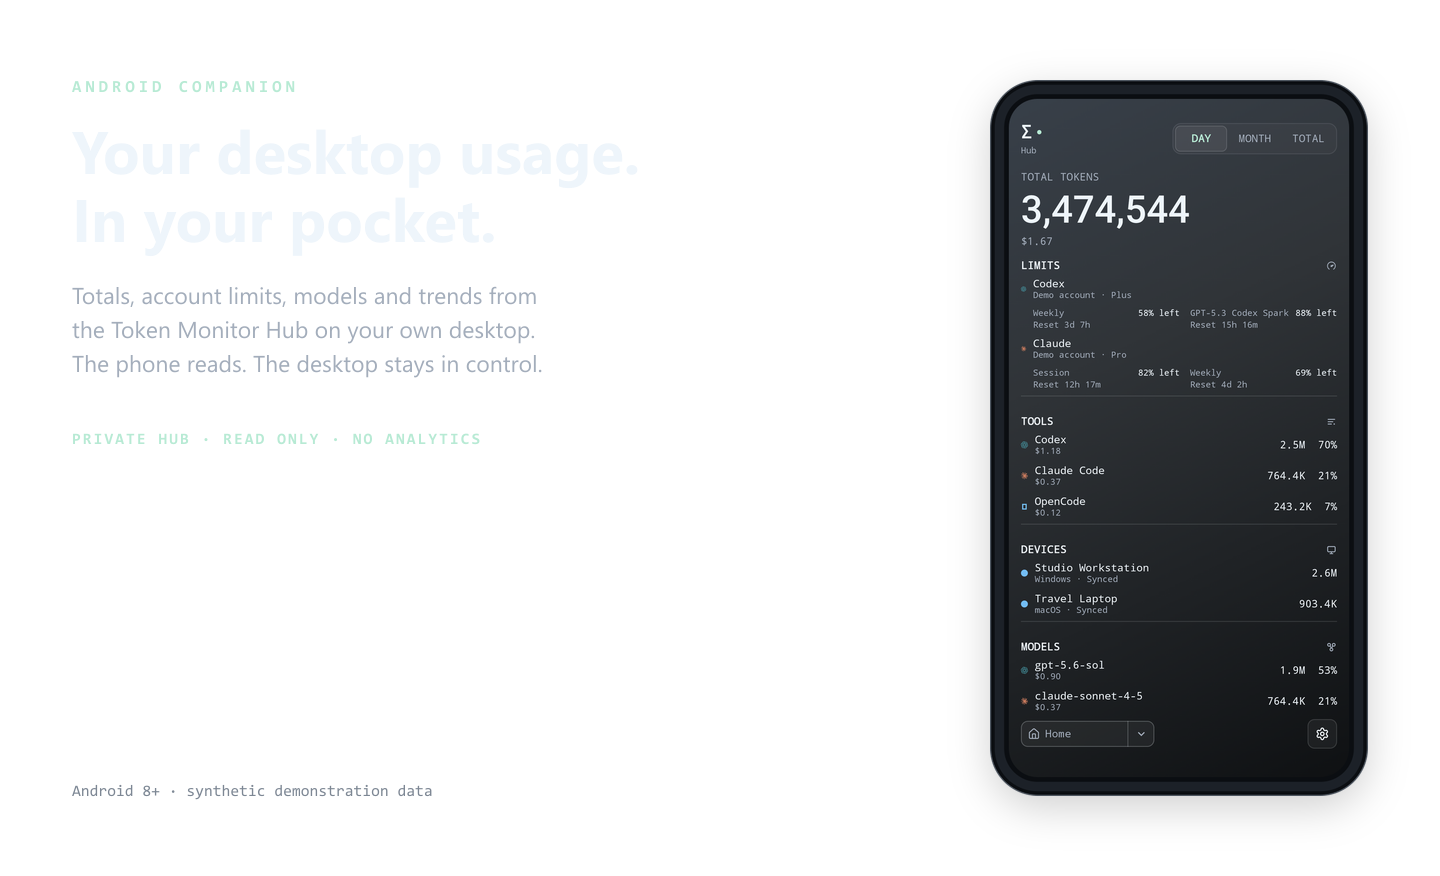
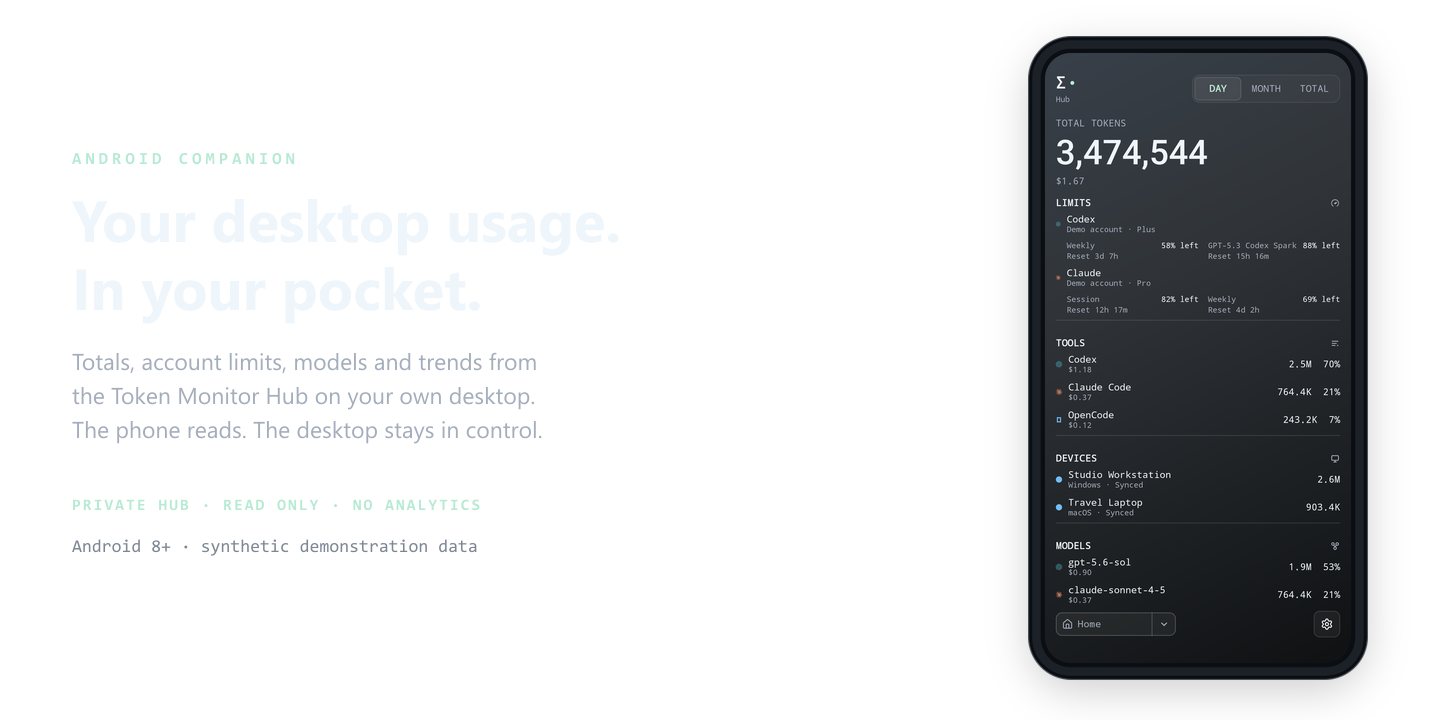
docs: clarify connection choices and polish README layout

diff --git a/README.md b/README.md
@@ -24,39 +24,18 @@
   <a href="docs/images/hero-light.png#gh-light-mode-only"><img src="docs/images/hero-light.png" alt="Your desktop usage. In your pocket. Totals, account limits, models and trends from the Token Monitor Hub, shown in the Android app with synthetic data." width="100%"></a><a href="docs/images/hero-dark.png#gh-dark-mode-only"><img src="docs/images/hero-dark.png" alt="Your desktop usage. In your pocket. Totals, account limits, models and trends from the Token Monitor Hub, shown in the Android app with synthetic data." width="100%"></a>
 </p>
 
-## Get started
-
-You need Android 8.0 or newer and a [Token Monitor](https://github.com/Javis603/token-monitor)
-Hub. **Tailscale is the recommended connection.**
-
-1. Download the signed APK from [Releases](https://github.com/The-Minion-oOo/token-monitor-android/releases/latest),
-   or update an existing installation through **Settings → App updates**.
-2. In desktop Token Monitor, open **Settings → Multi-device Sync → Host Hub**
-   and copy the Hub address and shared secret.
-3. Install [Tailscale](https://tailscale.com/) on the desktop and phone, signed
-   into the same tailnet.
-4. In the Android app, enter the desktop's `100.x` address and Hub secret,
-   then tap **Connect**.
-
-Home Wi-Fi is optional: tap **Find** while at home, then **Test and save home
-address**. An existing internet Hub uses a separate **Allow an internet Hub over
-HTTPS** switch, which starts off. Enabling it does not expose your computer,
-open a port or deploy a Hub.
-
-[Installation and updates](docs/INSTALL.md) · [Pairing and connection options](docs/PAIRING.md)
-
 ## The desktop dashboard, made mobile
 
 <table>
   <tr>
-    <td align="center" valign="top" width="33%"><a href="docs/images/home.png"><img src="docs/images/framed-home.png" alt="Home dashboard with totals, limits, tools, devices and models" width="100%"></a><br><sub><b>Command center</b><br>Totals, limits, tools, devices, models</sub></td>
-    <td align="center" valign="top" width="33%"><a href="docs/images/filtered-models.png"><img src="docs/images/framed-filtered-models.png" alt="Models filtered to Codex after tapping it in the tools list" width="100%"></a><br><sub><b>Tap a tool</b><br>See the models behind it</sub></td>
-    <td align="center" valign="top" width="33%"><a href="docs/images/trends.png"><img src="docs/images/framed-trends.png" alt="Usage overview cards and an activity heatmap with a selected day" width="100%"></a><br><sub><b>Find the busy days</b><br>Cards, heatmap, daily series</sub></td>
+    <td align="center" valign="top" width="33%"><a href="docs/images/home.png"><img src="docs/images/framed-home.png" alt="Home dashboard with totals, limits, tools, devices and models" width="100%"></a><br><b>Command center</b><br>Totals, limits, tools, devices, models</td>
+    <td align="center" valign="top" width="33%"><a href="docs/images/filtered-models.png"><img src="docs/images/framed-filtered-models.png" alt="Models filtered to Codex after tapping it in the tools list" width="100%"></a><br><b>Tap a tool</b><br>See the models behind it</td>
+    <td align="center" valign="top" width="33%"><a href="docs/images/trends.png"><img src="docs/images/framed-trends.png" alt="Usage overview cards and an activity heatmap with a selected day" width="100%"></a><br><b>Find the busy days</b><br>Cards, heatmap, daily series</td>
   </tr>
   <tr>
-    <td align="center" valign="top" width="33%"><a href="docs/images/devices.png"><img src="docs/images/framed-devices.png" alt="Usage grouped by two made-up desktop devices" width="100%"></a><br><sub><b>Every desktop</b><br>What each machine contributes</sub></td>
-    <td align="center" valign="top" width="33%"><a href="docs/images/projects.png"><img src="docs/images/framed-projects.png" alt="Searchable project usage with token and cost totals" width="100%"></a><br><sub><b>Projects and sessions</b><br>Searchable, without transcripts</sub></td>
-    <td align="center" valign="top" width="33%"><a href="docs/images/settings.png"><img src="docs/images/framed-settings.png" alt="Appearance, dashboard, widget and connection settings" width="100%"></a><br><sub><b>Make it yours</b><br>Themes, text size, motion, views</sub></td>
+    <td align="center" valign="top" width="33%"><a href="docs/images/devices.png"><img src="docs/images/framed-devices.png" alt="Usage grouped by two made-up desktop devices" width="100%"></a><br><b>Every desktop</b><br>What each machine contributes</td>
+    <td align="center" valign="top" width="33%"><a href="docs/images/projects.png"><img src="docs/images/framed-projects.png" alt="Searchable project usage with token and cost totals" width="100%"></a><br><b>Projects and sessions</b><br>Searchable, without transcripts</td>
+    <td align="center" valign="top" width="33%"><a href="docs/images/settings.png"><img src="docs/images/framed-settings.png" alt="Appearance, dashboard, widget and connection settings" width="100%"></a><br><b>Make it yours</b><br>Themes, text size, motion, views</td>
   </tr>
 </table>
 
@@ -67,12 +46,12 @@ open a port or deploy a Hub.
 
 <table>
   <tr>
-    <td align="center" valign="top" width="50%"><a href="docs/images/widget-pages-overview.png"><img src="docs/images/widget-pages-overview.png" alt="Pages widget Overview with tokens, cost, recent activity and tool share" width="100%"></a><br><sub><b>Overview</b><br>Totals, cost, activity and tool share</sub></td>
-    <td align="center" valign="top" width="50%"><a href="docs/images/widget-pages-limits.png"><img src="docs/images/widget-pages-limits.png" alt="Pages widget Limits with account windows and reset times" width="100%"></a><br><sub><b>Limits</b><br>Account windows and reset times</sub></td>
+    <td align="center" valign="top" width="50%"><a href="docs/images/widget-pages-overview.png"><img src="docs/images/widget-pages-overview.png" alt="Pages widget Overview with tokens, cost, recent activity and tool share" width="100%"></a><br><b>Overview</b><br>Totals, cost, activity and tool share</td>
+    <td align="center" valign="top" width="50%"><a href="docs/images/widget-pages-limits.png"><img src="docs/images/widget-pages-limits.png" alt="Pages widget Limits with account windows and reset times" width="100%"></a><br><b>Limits</b><br>Account windows and reset times</td>
   </tr>
   <tr>
-    <td align="center" valign="top" width="50%"><a href="docs/images/widget-pages-breakdown.png"><img src="docs/images/widget-pages-breakdown.png" alt="Pages widget Breakdown with tools and models" width="100%"></a><br><sub><b>Breakdown</b><br>Leading tools and models</sub></td>
-    <td align="center" valign="top" width="50%"><a href="docs/images/widget-pages-activity.png"><img src="docs/images/widget-pages-activity.png" alt="Pages widget Activity with seven-day chart and thirteen-week heatmap" width="100%"></a><br><sub><b>Activity</b><br>Daily chart and activity heatmap</sub></td>
+    <td align="center" valign="top" width="50%"><a href="docs/images/widget-pages-breakdown.png"><img src="docs/images/widget-pages-breakdown.png" alt="Pages widget Breakdown with tools and models" width="100%"></a><br><b>Breakdown</b><br>Leading tools and models</td>
+    <td align="center" valign="top" width="50%"><a href="docs/images/widget-pages-activity.png"><img src="docs/images/widget-pages-activity.png" alt="Pages widget Activity with seven-day chart and thirteen-week heatmap" width="100%"></a><br><b>Activity</b><br>Daily chart and activity heatmap</td>
   </tr>
 </table>
 
@@ -84,7 +63,7 @@ by your launcher.
 The picker also includes **Token Monitor · Usage**, a responsive summary widget
 that reflows as you resize it. Both widgets follow the app's theme.
 
-### Keep widgets current
+### Keep widgets current without opening the app
 
 - **Refresh** fetches one update.
 - **Live** checks stats every 30 seconds for up to one hour, with a Stop control
@@ -97,6 +76,60 @@ Choose background refresh under **Settings → Home-screen widget**. Failed read
 keep the last snapshot and mark it stale; changing pages never starts a fetch.
 
 [Widget guide](docs/WIDGETS.md) · [Background refresh and data use](docs/WIDGETS.md#background-refresh)
+
+## Get started
+
+Your desktop usage, wherever you check it. Choose how your phone reaches the
+[Token Monitor](https://github.com/Javis603/token-monitor) Hub:
+
+<table>
+  <tr>
+    <td align="center" valign="top" width="33%"><b>Tailscale</b><br>At home and away, over your private network.<br><b>Recommended</b><br><a href="#tailscale-setup"><kbd>Set up Tailscale</kbd></a></td>
+    <td align="center" valign="top" width="33%"><b>Home Wi-Fi</b><br>A direct connection on your home network.<br>Optional · home only<br><a href="#home-wi-fi-setup"><kbd>Set up home Wi-Fi</kbd></a></td>
+    <td align="center" valign="top" width="33%"><b>Internet (HTTPS)</b><br>Reach an existing HTTPS Hub without Tailscale.<br>Optional · off by default<br><a href="#internet-https-setup"><kbd>Set up HTTPS</kbd></a></td>
+  </tr>
+</table>
+
+**Install first:** on Android 8 or newer, download the signed APK from
+[Releases](https://github.com/The-Minion-oOo/token-monitor-android/releases/latest).
+Already installed? Use **Settings → App updates**.
+
+### Tailscale setup
+
+1. Install [Tailscale](https://tailscale.com/) on the desktop and phone, and sign
+   both into the same tailnet.
+2. In desktop Token Monitor, open **Settings → Multi-device Sync** and choose
+   **Host hub on this device**. Keep Token Monitor running.
+3. Copy the desktop's Tailscale address (`100.x`) and Hub secret into Android,
+   then tap **Connect**.
+
+### Home Wi-Fi setup
+
+1. Connect the desktop and phone to the same home network. In desktop Token
+   Monitor, enable **Host hub on this device** under **Settings → Multi-device Sync**.
+2. For a home-only connection, enable **Use Wi-Fi as the main Hub address** in
+   Android, enter the desktop's private address and Hub secret, then tap **Connect**.
+3. Already paired through Tailscale? Add a **Home Wi-Fi URL** instead. Tap **Find**,
+   then **Test and save home address** to keep it as an optional fallback.
+
+Allow Android's local-network permission if prompted. The home route is for your
+private network; use Tailscale or an HTTPS Hub when away.
+
+### Internet HTTPS setup
+
+1. Set up a Hub separately: the desktop project's Cloudflare Worker Hub, or a Node
+   Hub behind an HTTPS reverse proxy with a valid certificate.
+2. In Android connection settings, enable **Allow an internet Hub over HTTPS**.
+   This separate permission starts **off**.
+3. Enter the public DNS name, such as `https://hub.example.com`, and Hub secret,
+   then tap **Connect**. A bare name gains HTTPS and defaults to port 443.
+
+The switch does not expose your computer, open a port or deploy a Hub. A Worker
+uses outbound desktop connections; a public reverse proxy deliberately exposes
+its Hub. Use a long random secret: it can also change Hub data. If the phone is
+lost, change that secret on the Hub and every connected desktop.
+
+[Installation and updates](docs/INSTALL.md) · [Pairing and connection options](docs/PAIRING.md)
 
 ## What it shows
 
